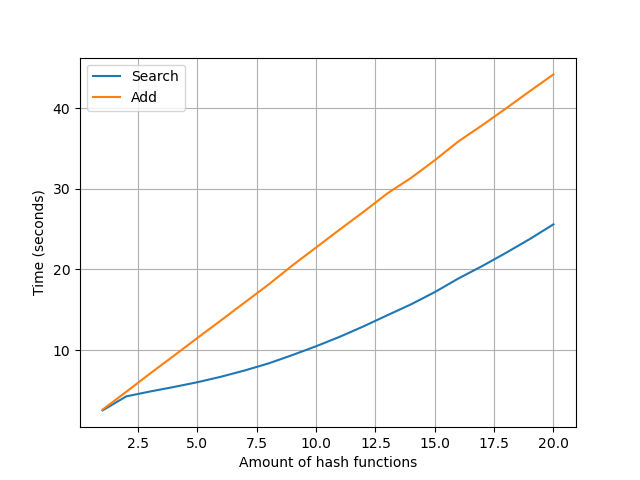
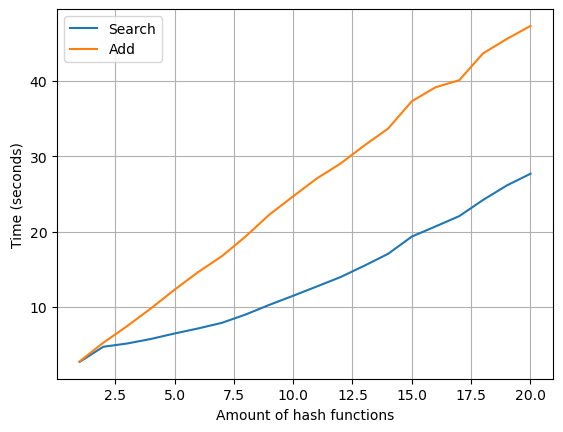
Fix: issue where y axis labels were cut off for certain plots

diff --git a/src/BloomFilter.py b/src/BloomFilter.py
@@ -119,7 +119,7 @@ def plot_time_search_add(dataset, empty_filter: BloomFilter):
     plt.grid(True, which="both", ls="-", alpha=0.2)
     if not os.path.exists("time_plots"):
         os.mkdir("time_plots")
-    plt.savefig(f"time_plots/diff_add_search_{data_name}")
+    plt.savefig(f"time_plots/diff_add_search_{data_name}", bbox_inches="tight")
     plt.clf()
 
     # Box plot of difference between adding and searching with no outliers
@@ -130,7 +130,7 @@ def plot_time_search_add(dataset, empty_filter: BloomFilter):
     plt.grid(True, which="both", ls="-", alpha=0.2)
     if not os.path.exists("time_plots"):
         os.mkdir("time_plots")
-    plt.savefig(f"time_plots/diff_add_search_no_outliers_{data_name}")
+    plt.savefig(f"time_plots/diff_add_search_no_outliers_{data_name}", bbox_inches="tight")
     plt.clf()
 
     # Box plots of searching and adding
@@ -140,7 +140,7 @@ def plot_time_search_add(dataset, empty_filter: BloomFilter):
     plt.grid(True, which="both", ls="-", alpha=0.2)
     if not os.path.exists("time_plots"):
         os.mkdir("time_plots")
-    plt.savefig(f"time_plots/add_search_{data_name}")
+    plt.savefig(f"time_plots/add_search_{data_name}", bbox_inches="tight")
     plt.clf()
 
     # Line plot of cumulative time needed for searching and adding the entire dataset
@@ -152,7 +152,7 @@ def plot_time_search_add(dataset, empty_filter: BloomFilter):
     plt.grid(True)
     if not os.path.exists("time_plots"):
         os.mkdir("time_plots")
-    plt.savefig(f"time_plots/cumulative_add_search_{data_name}")
+    plt.savefig(f"time_plots/cumulative_add_search_{data_name}", bbox_inches="tight")
     plt.clf()
 
 
@@ -183,7 +183,7 @@ def plot_cumulative_time_per_hash(dataset, m, h1, h2, max_k):
     plt.grid(True)
     if not os.path.exists("time_plots"):
         os.mkdir("time_plots")
-    plt.savefig(f"time_plots/cumulative_add_search_per_hash_{data_name}")
+    plt.savefig(f"time_plots/cumulative_add_search_per_hash_{data_name}", bbox_inches="tight")
     plt.clf()
 
 
@@ -218,5 +218,5 @@ def plot_time_length_string(filter: BloomFilter, plot_name: str, max_length=None
     plt.grid(True)
     if not os.path.exists("time_plots"):
         os.mkdir("time_plots")
-    plt.savefig(f"time_plots/time_length_string_{plot_name}")
+    plt.savefig(f"time_plots/time_length_string_{plot_name}", bbox_inches="tight")
     plt.clf()
